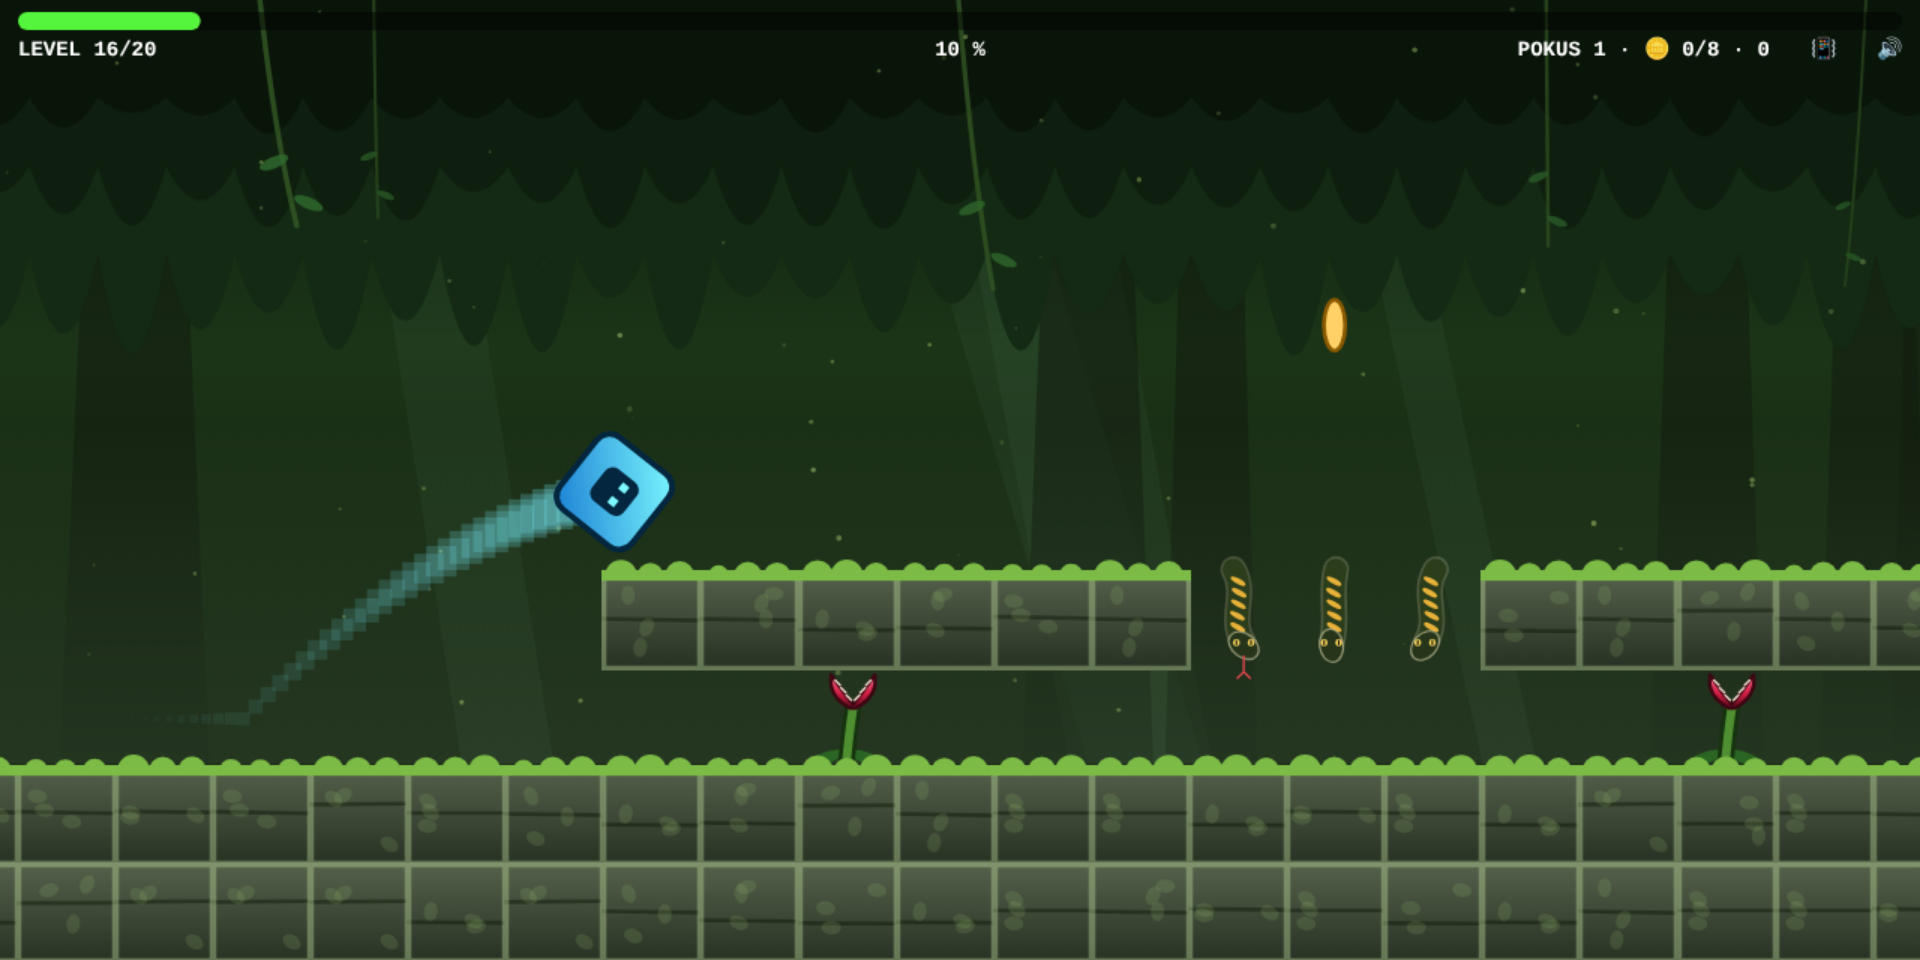
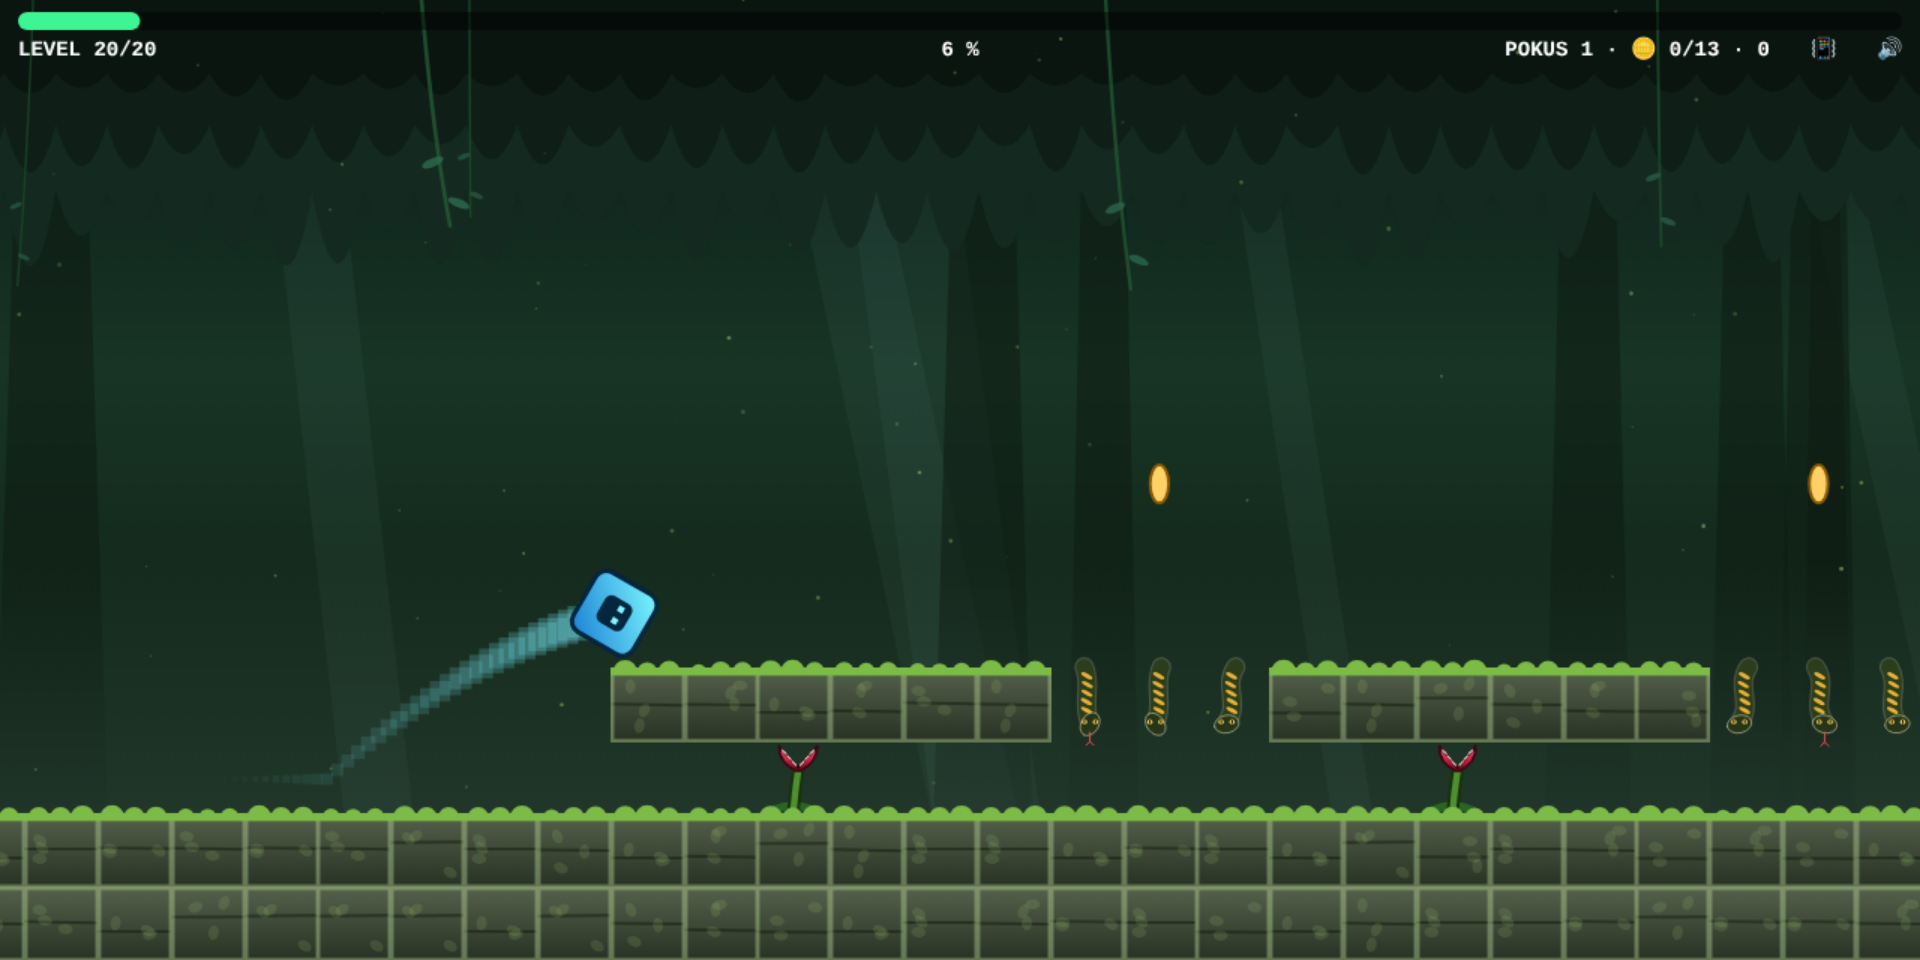
Prostřídej prostředí po celé hře
Světy dosud šly po blocích: deset úrovní bez tématu a s poušští a ohněm,
pak pět matematických a pět džunglových. Teď se prostředí prokládají od
začátku do konce (led hned ve druhé úrovni, džungle v šesté), takže
hráč vidí všechna od začátku a žádná část hry nevypadá dlouho stejně.

Mapy zůstávají beze změny – mění se jen řádek s tématem. Úseky se
stěhovat nemůžou, protože jejich rozteče jsou svázané s rychlostí
levelu; komentáře v plánu proto nově popisují, co v levelu je, ne jak
zrovna vypadá.

Rozdělení hlídá check_theme_variety(): hudba i odstín si obměnu vybírají
jako levelIndex % počet, takže dva levely stejného tématu se stejným
zbytkem by zněly i vypadaly úplně stejně. Bez tématu zůstaly úrovně
1, 8 a 15.

Náhledy v README přegenerovány (2. úroveň je nově ledová, džungle se
ukazuje na 20.). Všech dvacet levelů projde ověřením i průchodem
v Chromiu, service worker, zvuk i výkon beze změny.

Claude-Session: https://claude.ai/code/session_0148TD7KS3ov9Ae4LYUmKe5J

diff --git a/js/levels/level10.js b/js/levels/level10.js
@@ -5,7 +5,7 @@ import {Level} from "../level.js";
 // vynutit přegenerování jde přepínačem --force.
 // První argument = rychlost běhu v % základní rychlosti (100 = BASE_SPEED).
 const level10 = new Level(
-    {speed: 155, theme: 'fire'},
+    {speed: 155, theme: 'desert'},
     "                                                                                                                                                                                          ########################################################                                                                                                          ################################################################                                                                                                                                                                      ",
     "                                                                                                                                                                                          ########################################################                                                                                                          ################################################################                                                                                                                                                                      ",
     "                                                                                                                                                                                                            vv          ###          vv                                                                                                                                         vv          ###         vv        D                                                                                                                                                                               ",

diff --git a/js/levels/level15.js b/js/levels/level15.js
@@ -5,7 +5,7 @@ import {Level} from "../level.js";
 // vynutit přegenerování jde přepínačem --force.
 // První argument = rychlost běhu v % základní rychlosti (100 = BASE_SPEED).
 const level15 = new Level(
-    {speed: 185, theme: 'math'},
+    185,
     "                                                                                                                                      ########################################                                                                                                                                                                                                  ################    ########   #############                                                                                                                                    ",
     "                                                                                                                                      ########################################                                                                                                                                                                                                  ################    ########   #############                                                                                                                                    ",
     "                                                                                                                                                        v   v     D                                                                                                                                                                                                                                               D                                                                                                                                             ",

diff --git a/js/levels/level17.js b/js/levels/level17.js
@@ -5,7 +5,7 @@ import {Level} from "../level.js";
 // vynutit přegenerování jde přepínačem --force.
 // První argument = rychlost běhu v % základní rychlosti (100 = BASE_SPEED).
 const level17 = new Level(
-    {speed: 195, theme: 'jungle'},
+    {speed: 195, theme: 'math'},
     "                                                                                                                                                                                                                                                                                                                                                      ",
     "                                                                                                                                                                                                                                                                                                                                                      ",
     "                                                                                                                                                                                                                                                                                                                                                      ",

diff --git a/js/levels/level9.js b/js/levels/level9.js
@@ -5,7 +5,7 @@ import {Level} from "../level.js";
 // vynutit přegenerování jde přepínačem --force.
 // První argument = rychlost běhu v % základní rychlosti (100 = BASE_SPEED).
 const level9 = new Level(
-    148,
+    {speed: 148, theme: 'fire'},
     "                                                                                                        ########################################################                                                                                                                                                                                          ",
     "                                                                                                        ########################################################                                                                                                                                                                                          ",
     "                                                                                                                          vv          ###          vv                                                                                                                                                                                                     ",

diff --git a/js/levels/level14.js b/js/levels/level14.js
@@ -5,7 +5,7 @@ import {Level} from "../level.js";
 // vynutit přegenerování jde přepínačem --force.
 // První argument = rychlost běhu v % základní rychlosti (100 = BASE_SPEED).
 const level14 = new Level(
-    {speed: 178, theme: 'math'},
+    {speed: 178, theme: 'fire'},
     "                                                                                                                                                                                                                                                                                                                                        ",
     "                                                                                                                                                                                                                                                                                                                                        ",
     "                                                                                                                                                                                                                                                                                                                                        ",

diff --git a/js/levels/level6.js b/js/levels/level6.js
@@ -5,7 +5,7 @@ import {Level} from "../level.js";
 // vynutit přegenerování jde přepínačem --force.
 // První argument = rychlost běhu v % základní rychlosti (100 = BASE_SPEED).
 const level6 = new Level(
-    {speed: 130, theme: 'desert'},
+    {speed: 130, theme: 'jungle'},
     "                                                                                                                                                                                                                                                                                                                                      ",
     "                                                                                                                                                                                                                                                                                                                                      ",
     "                                                                                                                                                                                                                                                                                                                                      ",

diff --git a/js/levels/level19.js b/js/levels/level19.js
@@ -5,7 +5,7 @@ import {Level} from "../level.js";
 // vynutit přegenerování jde přepínačem --force.
 // První argument = rychlost běhu v % základní rychlosti (100 = BASE_SPEED).
 const level19 = new Level(
-    {speed: 205, theme: 'jungle'},
+    {speed: 205, theme: 'fire'},
     "                                                                                                            ########################################################                                                                                                                                                        ",
     "                                                                                                            ########################################################                                                                                                                                                        ",
     "                                                                                                                                      vv        vv    DDD                                                                                                                                                                   ",

diff --git a/js/levels/level13.js b/js/levels/level13.js
@@ -5,7 +5,7 @@ import {Level} from "../level.js";
 // vynutit přegenerování jde přepínačem --force.
 // První argument = rychlost běhu v % základní rychlosti (100 = BASE_SPEED).
 const level13 = new Level(
-    {speed: 172, theme: 'math'},
+    {speed: 172, theme: 'ice'},
     "                    ########################################                                  ################    ########   #############                      ########################################                                  ################    ########   #############                                    ",
     "                    ########################################                                  ################    ########   #############                      ########################################                                  ################    ########   #############                                    ",
     "                                      v   v     D                                                                               D                                                 v   v     D                                                                               D                                             ",

diff --git a/js/levels/level12.js b/js/levels/level12.js
@@ -5,7 +5,7 @@ import {Level} from "../level.js";
 // vynutit přegenerování jde přepínačem --force.
 // První argument = rychlost běhu v % základní rychlosti (100 = BASE_SPEED).
 const level12 = new Level(
-    {speed: 166, theme: 'math'},
+    {speed: 166, theme: 'jungle'},
     "                                                                                                                                                                                                                                                                                                                      ",
     "                                                                                                                                                                                                                                                                                                                      ",
     "                                                                                                                                                                                                                                                                                                                      ",

diff --git a/js/levels/level16.js b/js/levels/level16.js
@@ -5,7 +5,7 @@ import {Level} from "../level.js";
 // vynutit přegenerování jde přepínačem --force.
 // První argument = rychlost běhu v % základní rychlosti (100 = BASE_SPEED).
 const level16 = new Level(
-    {speed: 190, theme: 'jungle'},
+    {speed: 190, theme: 'desert'},
     "                                                                                                                                                                                                                                                                                                                ",
     "                                                                                                                                                                                                                                                                                                                ",
     "                                                                                                                                                                                                                                                                                                                ",

diff --git a/js/levels/level7.js b/js/levels/level7.js
@@ -5,7 +5,7 @@ import {Level} from "../level.js";
 // vynutit přegenerování jde přepínačem --force.
 // První argument = rychlost běhu v % základní rychlosti (100 = BASE_SPEED).
 const level7 = new Level(
-    136,
+    {speed: 136, theme: 'ice'},
     "                                                                                                                                                                                                                                                                                                                          ",
     "                                                                                                                                                                                                                                                                                                                          ",
     "                                                                                                                                                                                                                                                                                                                          ",

diff --git a/js/levels/level8.js b/js/levels/level8.js
@@ -5,7 +5,7 @@ import {Level} from "../level.js";
 // vynutit přegenerování jde přepínačem --force.
 // První argument = rychlost běhu v % základní rychlosti (100 = BASE_SPEED).
 const level8 = new Level(
-    {speed: 142, theme: 'fire'},
+    142,
     "                    ########################################################                                                                                  ################################################################                                                                                      ",
     "                    ########################################################                                                                                  ################################################################                                                                                      ",
     "                                      vv          ###          vv                                                                                                                 vv          ###         vv        D                                                                                               ",
